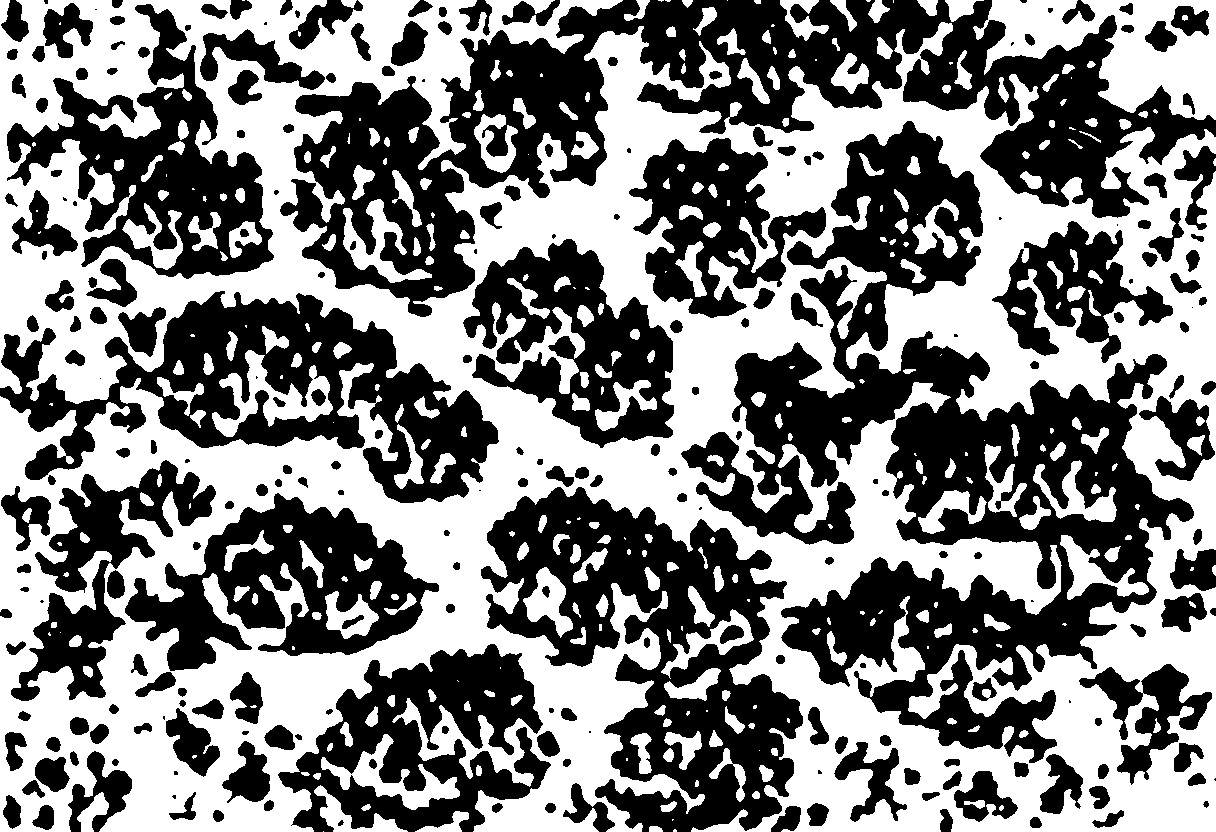
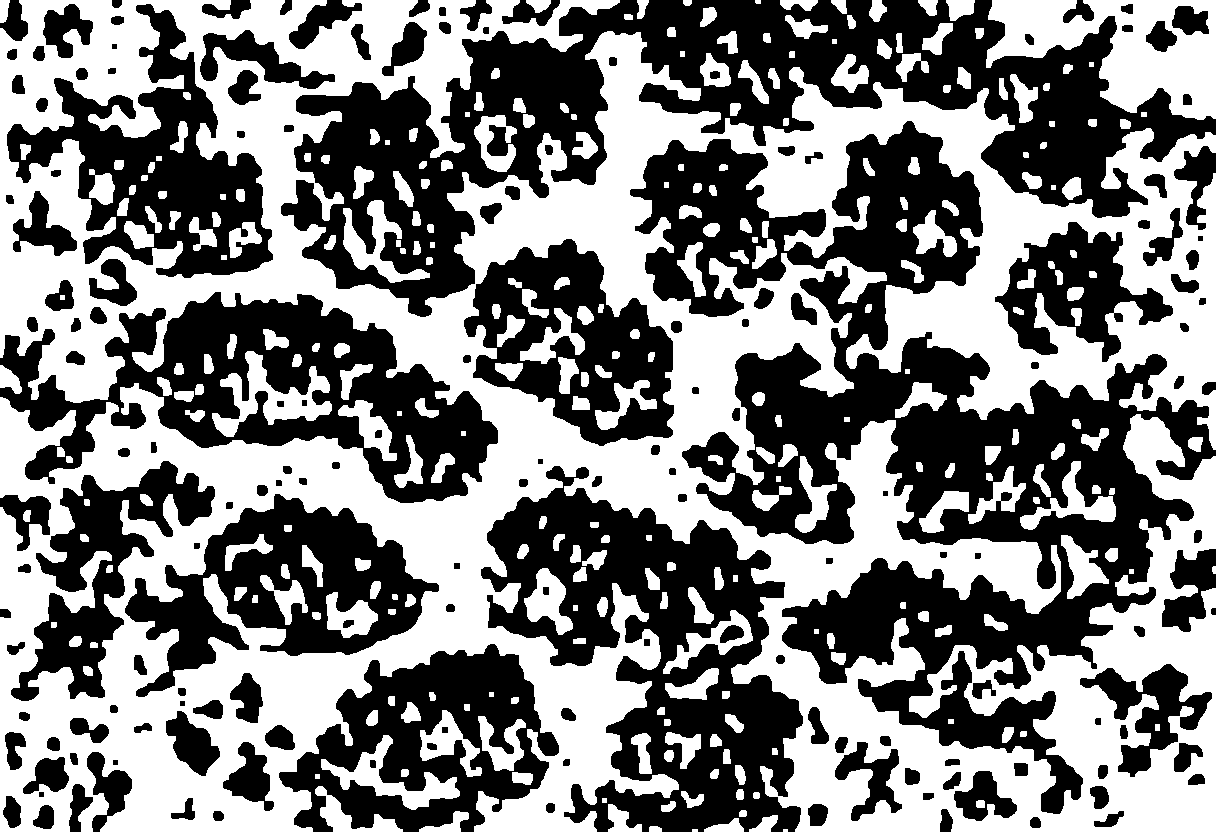
Clean maze mask specks and free the entrance

Changed region(s): [[0.875, 0.3438, 0.9062, 0.375], [0.7812, 0.0625, 0.8125, 0.0938], [0.7188, 0.2812, 0.75, 0.3125]]

diff --git a/tools/generate_collision_mask.py b/tools/generate_collision_mask.py
@@ -54,6 +54,19 @@ def walkable_from_density(density: np.ndarray, threshold: int) -> np.ndarray:
     return density <= threshold
 
 
+def clean_walkable_mask(walkable: np.ndarray, kernel: int) -> np.ndarray:
+    """Fill small obstacle specks and remove isolated walkable specks."""
+    if kernel <= 1:
+        return walkable
+    kernel = max(3, kernel | 1)
+    source = Image.fromarray(np.where(walkable, 255, 0).astype(np.uint8), mode="L")
+    # Closing first fills small black holes in paths; opening then removes
+    # isolated white islands that cannot represent useful walking space.
+    cleaned = source.filter(ImageFilter.MaxFilter(kernel)).filter(ImageFilter.MinFilter(kernel))
+    cleaned = cleaned.filter(ImageFilter.MinFilter(kernel)).filter(ImageFilter.MaxFilter(kernel))
+    return np.asarray(cleaned) >= 128
+
+
 def occupied_grid(mask: np.ndarray, cell_size: int, occupancy: float) -> np.ndarray:
     """Convert a binary obstacle mask into coarse occupied cells."""
     height, width = mask.shape
@@ -130,6 +143,7 @@ def main() -> None:
     parser.add_argument("--cell-size", type=int, default=16)
     parser.add_argument("--gaussian-kernel", type=int, default=21, help="Approximate odd-sized Gaussian kernel")
     parser.add_argument("--walkable-threshold", type=int, default=54, help="Grayscale density threshold; values at or below it are walkable")
+    parser.add_argument("--cleanup-kernel", type=int, default=5, help="Odd morphology kernel used to remove small mask specks")
     parser.add_argument("--obstacle-occupancy", type=float, default=0.50, help="Obstacle fraction required for a coarse collision cell")
     parser.add_argument("--inset", type=int, default=3)
     parser.add_argument("--min-area", type=int, default=384)
@@ -140,7 +154,7 @@ def main() -> None:
     image = Image.open(args.image).convert("RGB").resize((args.world_width, args.world_height), Image.Resampling.LANCZOS)
     edges = edge_map(image, args.edge_percentile)
     density = gaussian_density(edges, args.gaussian_kernel)
-    walkable = walkable_from_density(density, args.walkable_threshold)
+    walkable = clean_walkable_mask(walkable_from_density(density, args.walkable_threshold), args.cleanup_kernel)
     grid = occupied_grid(~walkable, args.cell_size, args.obstacle_occupancy)
     rects = merge_grid(grid, args.cell_size, args.inset, args.min_area)
     rects.sort(key=lambda rect: (rect.y, rect.x))
@@ -151,7 +165,7 @@ def main() -> None:
         "cellSize": args.cell_size,
         "method": "edge map -> Gaussian density field -> grayscale walkable threshold -> coarse obstacle grid -> greedy rectangle merge",
         "reviewRequired": True,
-        "settings": {key: getattr(args, key) for key in ["gaussian_kernel", "walkable_threshold", "obstacle_occupancy", "inset", "min_area", "edge_percentile"]},
+        "settings": {key: getattr(args, key) for key in ["gaussian_kernel", "walkable_threshold", "cleanup_kernel", "obstacle_occupancy", "inset", "min_area", "edge_percentile"]},
         "rectangles": [{"x": r.x, "y": r.y, "width": r.w, "height": r.h} for r in rects],
         "polygons": [r.polygon() for r in rects],
     }

diff --git a/README.md b/README.md
@@ -74,7 +74,7 @@ npm run check -- --pack
 
 ## Collision-mask helper
 
-`tools/generate_collision_mask.py` is an offline assistive tool for turning a static top-down background into reviewable collision candidates. It resizes the image to world coordinates, detects high-frequency edges, applies an approximately `k × k` Gaussian blur, classifies pixels at or below one grayscale threshold as walkable, and derives coarse obstacle candidates from the inverse mask. It writes:
+`tools/generate_collision_mask.py` is an offline assistive tool for turning a static top-down background into reviewable collision candidates. It resizes the image to world coordinates, detects high-frequency edges, applies an approximately `k × k` Gaussian blur, classifies pixels at or below one grayscale threshold as walkable, removes small mask specks with binary morphology, and derives coarse obstacle candidates from the inverse mask. It writes:
 
 - JSON containing rectangles and four-point polygons
 - A debug PNG with the candidate regions drawn over the background
@@ -99,6 +99,7 @@ python3 tools/generate_collision_mask.py \
   --cell-size 32 \
   --gaussian-kernel 21 \
   --walkable-threshold 54 \
+  --cleanup-kernel 5 \
   --obstacle-occupancy 0.50 \
   --inset 5 \
   --min-area 1536
